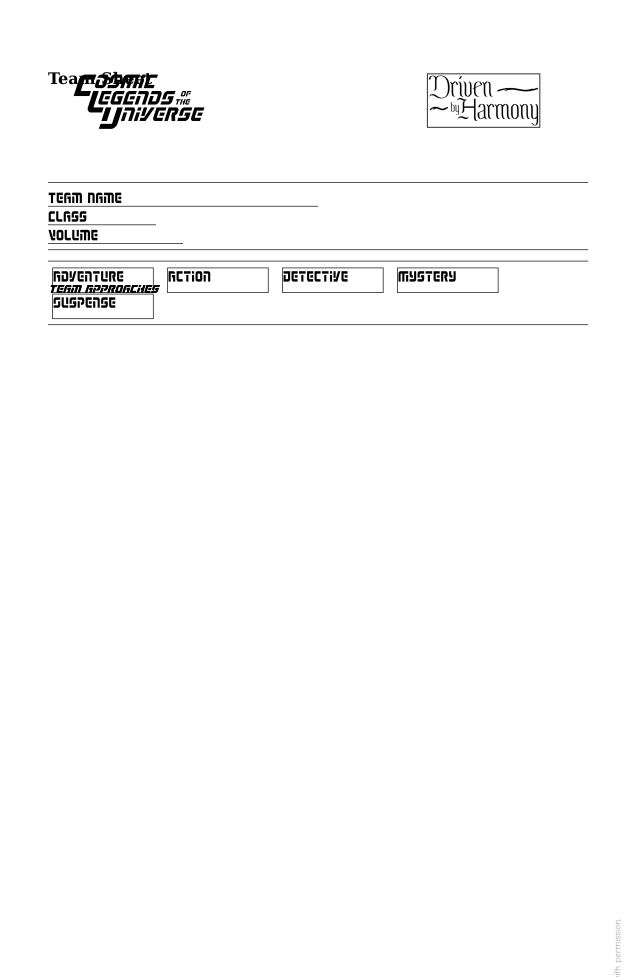
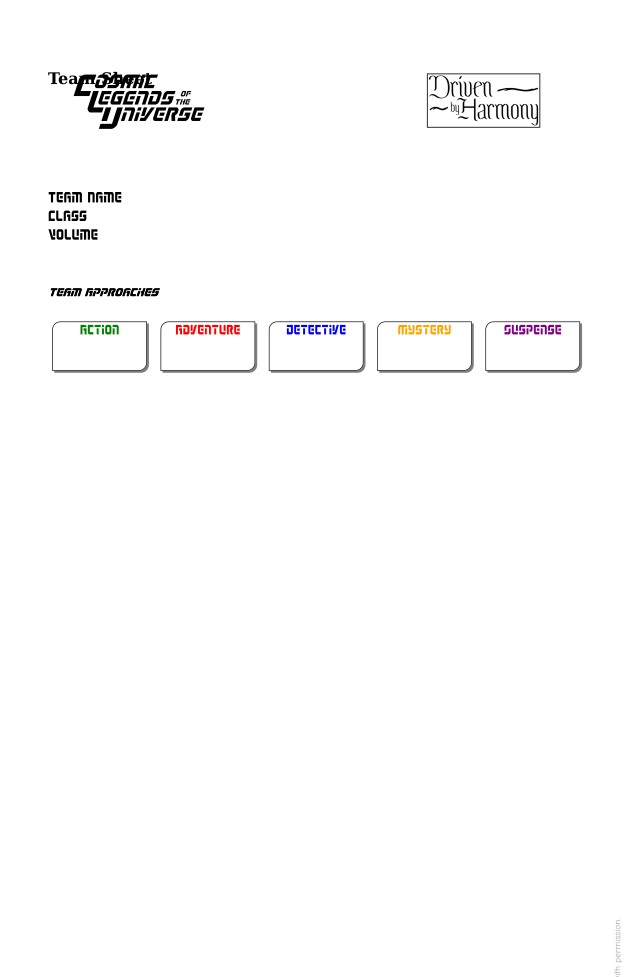
Team Sheet
CSS

diff --git a/style/team-sheet.css b/style/team-sheet.css
@@ -94,9 +94,8 @@ header h1       { string-set: gamename content(); }
 
 #team-sheet > .header > ul > li > span.field { display: inline-block; border-bottom: 0.5pt solid black; }
 
-#team-sheet ul li span.field    { 
+#team-sheet span.field    { 
   display: inline-block; 
-  border-bottom: 0.5pt solid black; 
   font-size: var(-small); 
   font-family: var(--font-sheet-2); 
 }
@@ -110,8 +109,10 @@ header h1       { string-set: gamename content(); }
   padding-top:    4pt;
   padding-bottom: 4pt;
   margin-bottom:  8pt;
+  /*
   border-top:     0.5pt solid black;
   border-bottom:  0.5pt solid black;
+  */
   display:        block;
   position:       relative;
 }
@@ -119,26 +120,32 @@ header h1       { string-set: gamename content(); }
 #team-sheet > .header > .line :matches(h1, h2, h3, h4, h5, h6) {
   font-size:   var(--body);
   font-family: var(--font-header);
-  position:    absolute; top:  0; left: 0;
+  /*
+  position:    absolute; 
+  top:  0; 
+  left: 0;
+  */
 }
 
 #team-sheet > .header > .line.team-approach-line > ul > li {
   display: inline-block;
 }
 
+#team-sheet > .header > .line.team-approach-line > ul > li > span.field.action { color: var(--color-action); }
+#team-sheet > .header > .line.team-approach-line > ul > li > span.field.adventure { color: var(--color-adventure); }
+#team-sheet > .header > .line.team-approach-line > ul > li > span.field.detective { color: var(--color-detective); }
+#team-sheet > .header > .line.team-approach-line > ul > li > span.field.mystery { color: var(--color-mystery); }
+#team-sheet > .header > .line.team-approach-line > ul > li > span.field.suspense { color: var(--color-suspense); }
+
 #team-sheet > .header > .line.team-approach-line > ul > li > span {
-  width:         75pt; 
+  width:         70pt; 
   margin-right:  3.2pt; margin-left: 3.2pt;
-  height: 0.25in;
+  height: 0.5in;
   border: 0.5pt solid black;
+  text-align: center;
+  font-size: var(--sheet);
+  border-radius: var(--border-radius);
+  box-shadow: var(--box-shadow) var(--color-shadow);
 }
 
 #team-sheet > .body { column-count: 2; column-gap: 8pt; }
-
-#team-sheet > .body > .section { break-inside: avoid; }
-#team-sheet > .body > .section { break-after: column; }
-
-#team-sheet > .allies.section         > ul > li       { border-bottom: 0.5pt solid black; }
-#team-sheet > .foes.section         > ul > li         { border-bottom: 0.5pt solid black; }
-#team-sheet > .transport.subsection > .line > ul > li { border-bottom: 0.5pt solid black; }
-

diff --git a/style/style.css b/style/style.css
@@ -552,11 +552,11 @@ blockquote {
 .skill-list .adventure:before { content: 'Adventure/';            }
 .skill-list   .mystery:before { content: 'Mystery/';              }
 .skill-list  .suspense:before { content: 'Suspense/';             }
-.skill-list .action           { font-weight: bold; color: green;  }
-.skill-list .detective        { font-weight: bold; color: blue;   }
-.skill-list .adventure        { font-weight: bold; color: red;    }
-.skill-list .mystery          { font-weight: bold; color: orange; }
-.skill-list .suspense         { font-weight: bold; color: purple; }
+.skill-list .action           { font-weight: bold; color: var(--color-action);    }
+.skill-list .detective        { font-weight: bold; color: var(--color-detective); }
+.skill-list .adventure        { font-weight: bold; color: var(--color-adventure); }
+.skill-list .mystery          { font-weight: bold; color: var(--color-mystery);   }
+.skill-list .suspense         { font-weight: bold; color: var(--color-suspense);  }
 
 .breakable ul { break-inside: auto; }
 

diff --git a/style/config.css b/style/config.css
@@ -92,6 +92,12 @@
   --color-class-twins       : rgb( 139 , 0   , 139 )    ; /* purple       */
   --color-class-wheelman    : rgb( 75  , 75  , 75  )    ; /* gray         */
 
+  --color-action:    green;
+  --color-adventure: red;
+  --color-detective: blue;
+  --color-mystery:   orange;
+  --color-suspense:  purple;
+
   --color-stunt             : blue                      ;
   --color-toc-white         : #F0F0F0                   ;
   --color-yes               : green                     ;

diff --git a/src/team/sheet.md b/src/team/sheet.md
@@ -17,11 +17,11 @@
 :::::::::: { .team-approach-line .line } ::::::::::::::::::::::::::::::::::::
 ## Team Approaches
 
-- [Adventure]{ .team-approach .field }
-- [Action   ]{ .team-approach .field }
-- [Detective]{ .team-approach .field }
-- [Mystery  ]{ .team-approach .field }
-- [Suspense ]{ .team-approach .field }
+- [Action   ]{ .team-approach .action    .field }
+- [Adventure]{ .team-approach .adventure .field }
+- [Detective]{ .team-approach .detective .field }
+- [Mystery  ]{ .team-approach .mystery   .field }
+- [Suspense ]{ .team-approach .suspense  .field }
 :::::::::::::::::::::::::::::::::::::::::::::::::::::::::::::::::::::::::::::
 
 [Driven by Harmony logo &copy; Cat McDonald, used with permission.]{.hd-logo-copy} \
